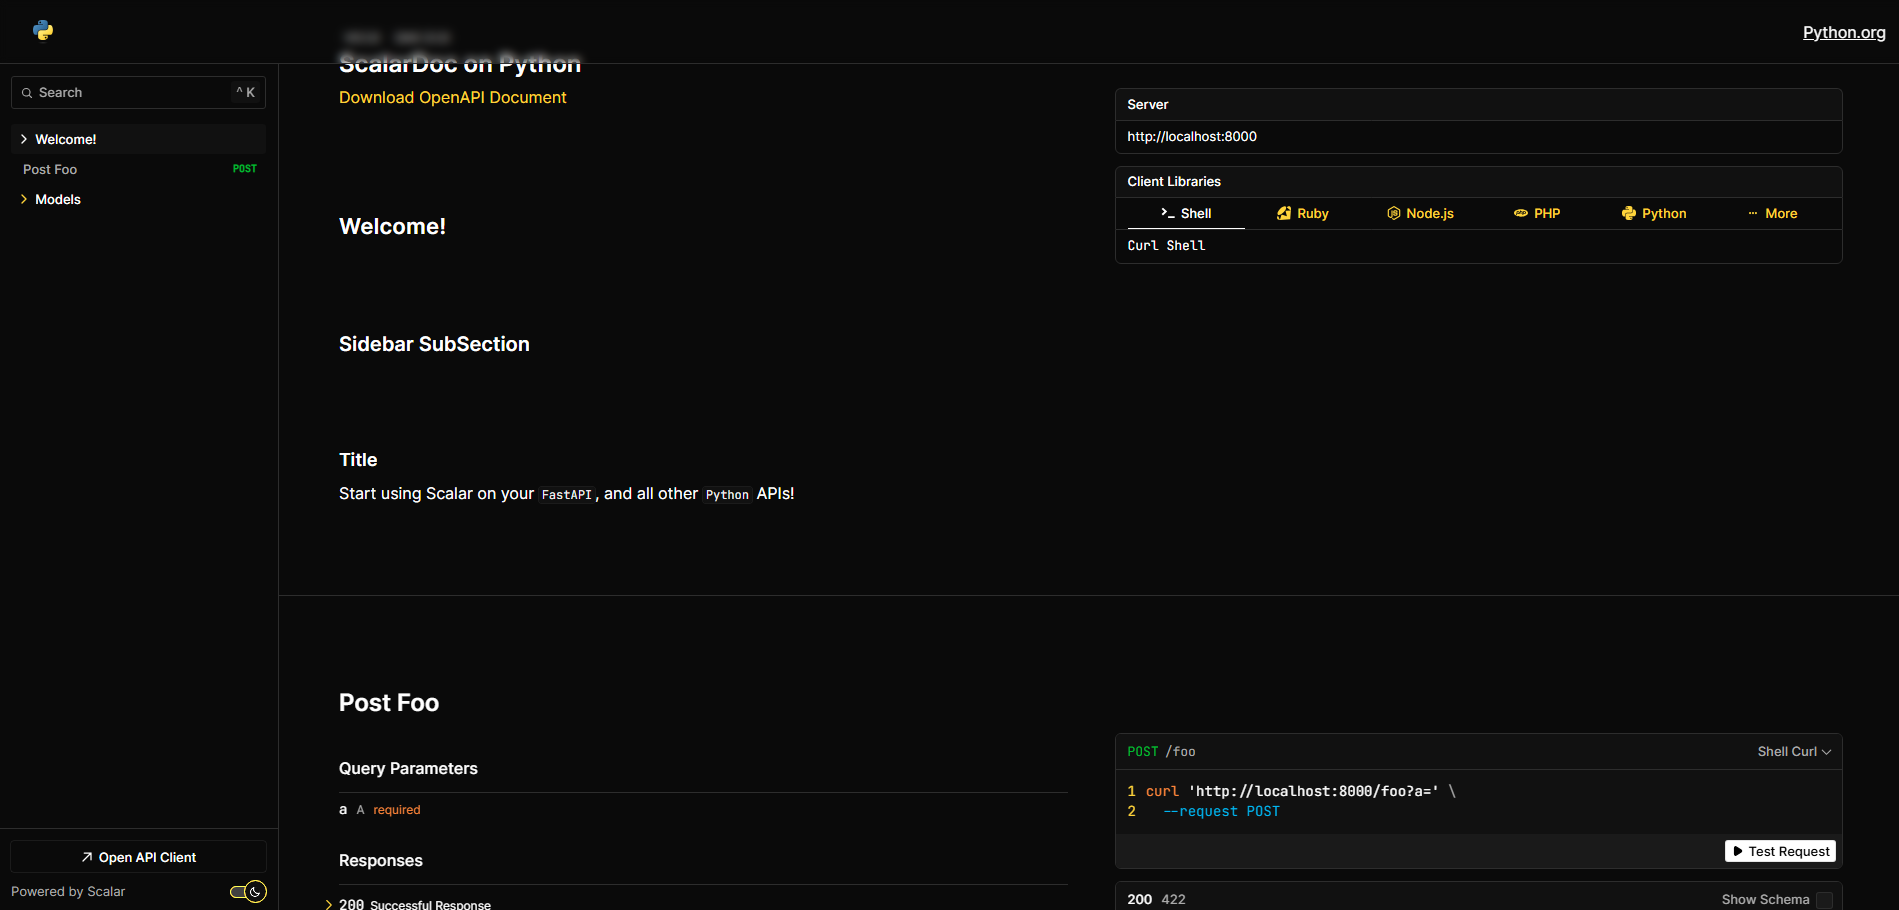
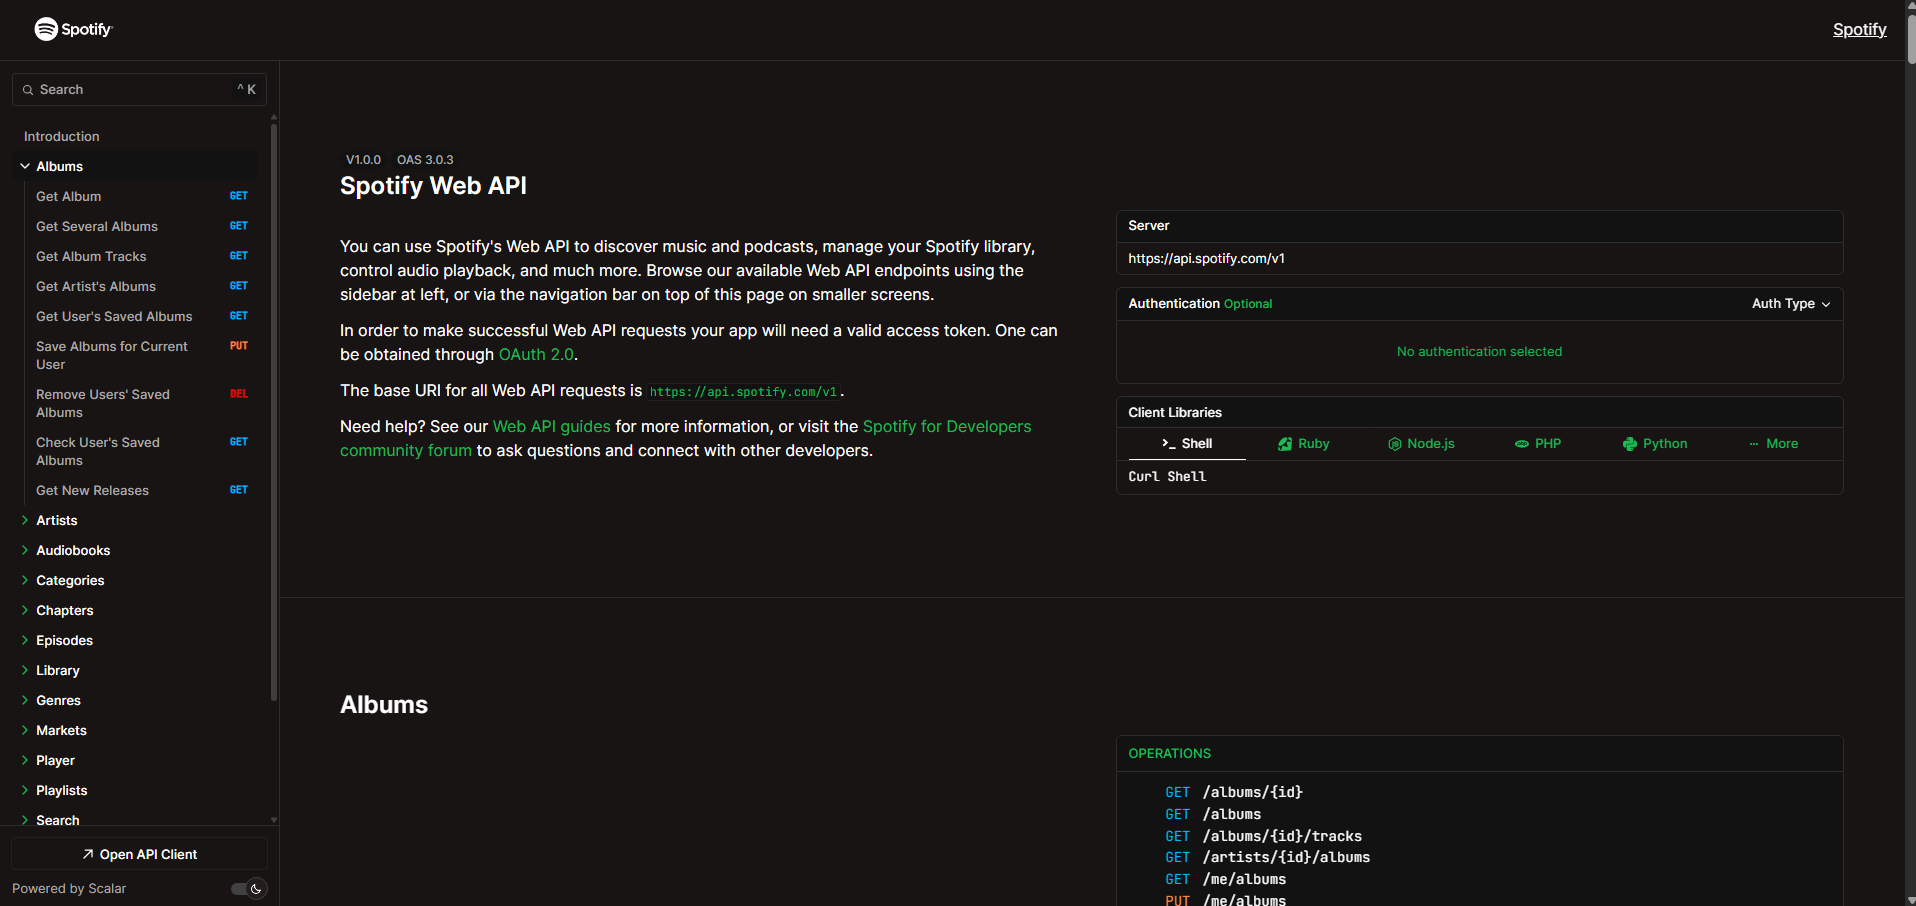
fix: adjusting example to spotify

diff --git a/README.md b/README.md
@@ -2,7 +2,10 @@
 
 A powerful, customizable, and fully native way to render OpenAPI documentation using [Scalar API Reference](https://github.com/scalar/scalar) — directly from Python 🐍.
 
+- Example using the Spotify Web API schema: [Click here to check tthe live demo](https://iagobalmeida.github.io/scalar_doc/examples/#tag/albums)
+
 ![Demo](./demo.png)
+
 
 ## ✨ Why Scalar DOC?
 
@@ -217,7 +220,9 @@ spotify_docs.set_theme(
 
 Found a bug? Have an idea? Want to help improve the library?
 
-Pull requests and issues are warmly welcome!
+This is an Open Source project! Pull requests and issues are warmly welcome!
+
+[Go to the repo](https://github.com/iagobalmeida/scalar_doc)
 
 > ⚠ Heads up: Some advanced features like `ScalarConfiguration` toggles are still being polished and may not reflect immediately in output. Fixes are planned for the next release.
 
